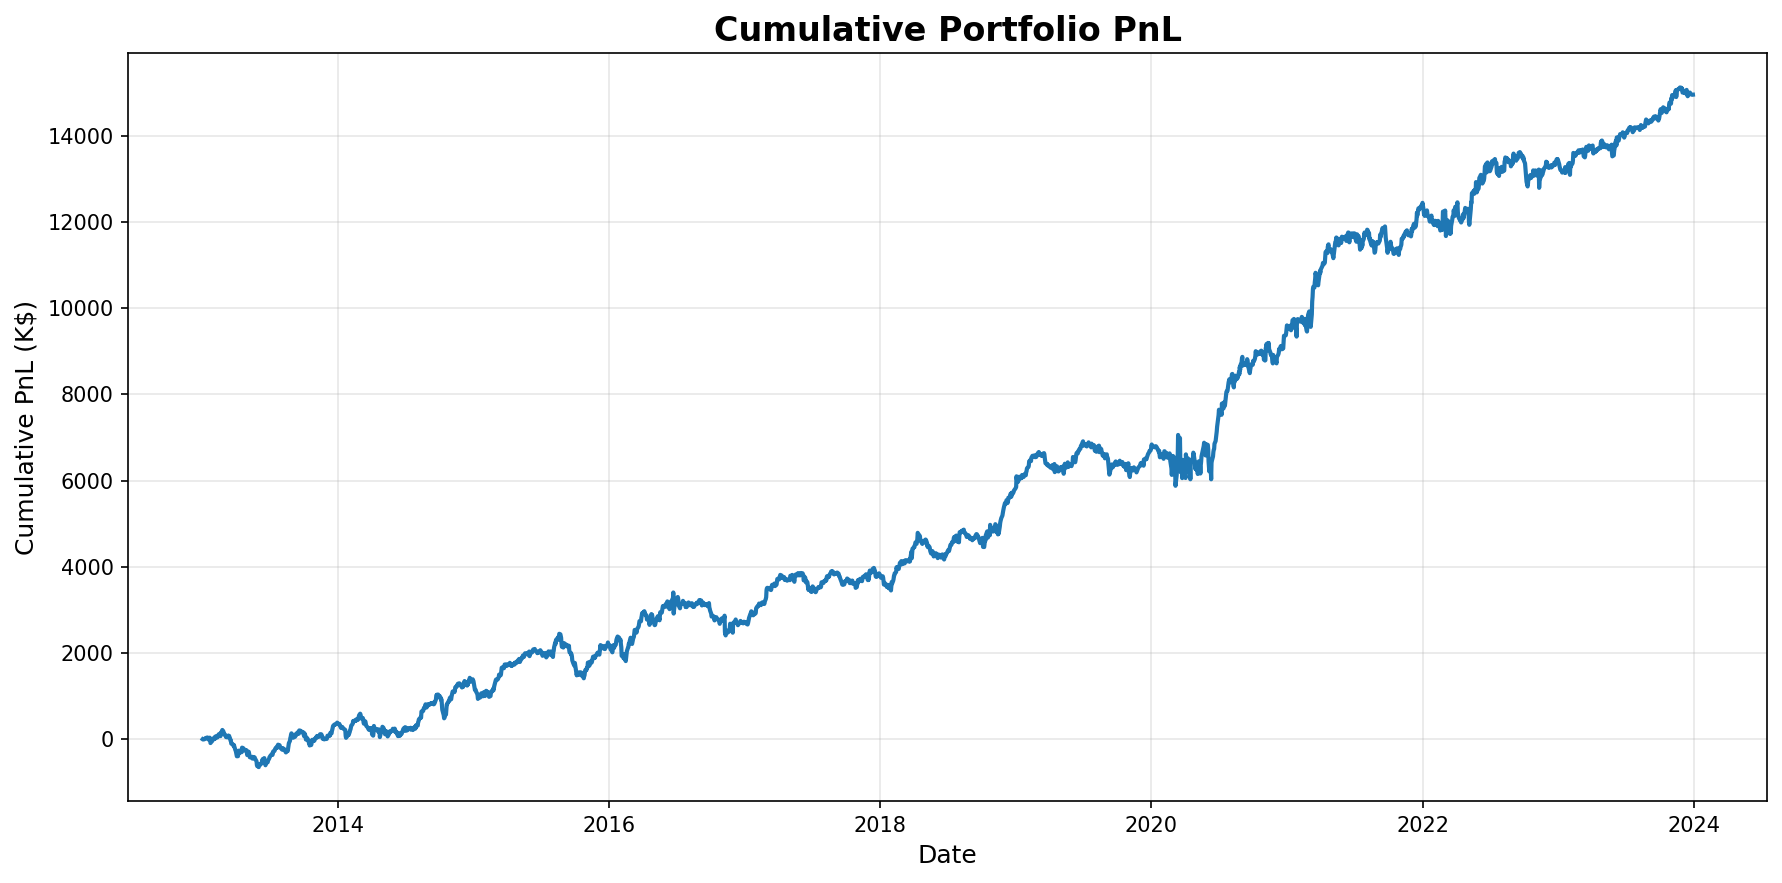
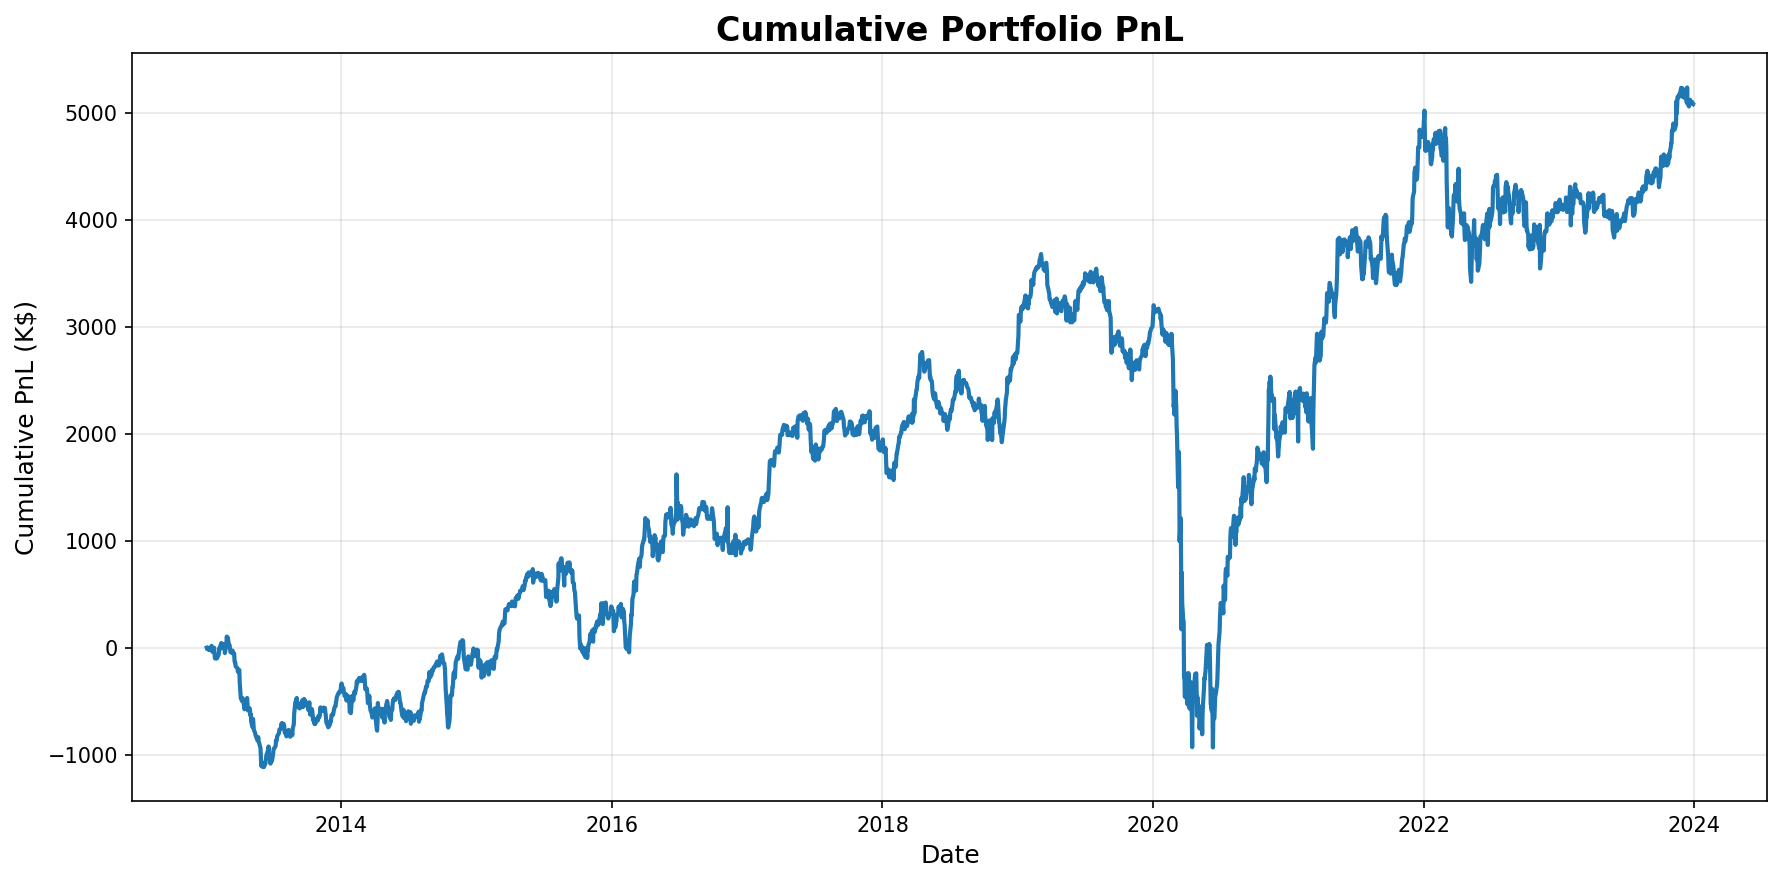
added logging for service communication duration

diff --git a/src/NormalizerServer.cpp b/src/NormalizerServer.cpp
@@ -1,0 +1,207 @@
+#include <iostream>
+#include <memory>
+#include <string>
+#include <thread>
+#include <chrono>
+#include <cstdlib>
+
+#include <grpcpp/grpcpp.h>
+#include <nlohmann/json.hpp>
+
+#include "pipeline.grpc.pb.h"
+#include "Normalizer.h"
+
+using grpc::Channel;
+using grpc::ClientContext;
+using grpc::Server;
+using grpc::ServerBuilder;
+using grpc::ServerContext;
+using grpc::Status;
+
+using pipeline::Ack;
+using pipeline::BacktesterService;
+using pipeline::Matrix;
+using pipeline::NormalizeRequest;
+using pipeline::NormalizeResponse;
+using pipeline::NormalizerService;
+using pipeline::Row;
+using pipeline::SubmitWeightsRequest;
+using pipeline::SubmitWeightsResponse;
+
+class NormalizerServiceImpl final : public NormalizerService::Service
+{
+private:
+    Normalizer normalizer_;
+    std::string backtester_host_;
+    int backtester_port_;
+    int max_msg_mb_;
+
+    // Helper: Convert protobuf Matrix to JSON format expected by Normalizer
+    std::string matrixToJson(const Matrix &matrix,
+                             const google::protobuf::RepeatedPtrField<std::string> &dates,
+                             const google::protobuf::RepeatedPtrField<std::string> &stocks)
+    {
+        nlohmann::json j;
+        j["dates"] = std::vector<std::string>(dates.begin(), dates.end());
+        j["stocks"] = std::vector<std::string>(stocks.begin(), stocks.end());
+        j["index"] = j["dates"];
+        j["columns"] = j["stocks"];
+
+        nlohmann::json data = nlohmann::json::array();
+        for (const auto &row : matrix.rows())
+        {
+            nlohmann::json row_array = nlohmann::json::array();
+            for (double val : row.values())
+            {
+                row_array.push_back(val);
+            }
+            data.push_back(row_array);
+        }
+        j["data"] = data;
+        return j.dump();
+    }
+
+    // Helper: Convert JSON back to protobuf Matrix
+    Matrix jsonToMatrix(const std::string &json_str)
+    {
+        auto j = nlohmann::json::parse(json_str);
+        Matrix matrix;
+
+        const auto &data = j.at("data");
+        for (const auto &row_array : data)
+        {
+            Row *row = matrix.add_rows();
+            for (const auto &val : row_array)
+            {
+                row->add_values(val.is_null() ? 0.0 : val.get<double>());
+            }
+        }
+        return matrix;
+    }
+
+    // Async processing function
+    void processAsync(const NormalizeRequest &request, std::chrono::steady_clock::time_point receive_time)
+    {
+        try
+        {
+            auto compute_start = std::chrono::steady_clock::now();
+
+            // Convert to JSON
+            std::string json_input = matrixToJson(request.matrix(), request.dates(), request.stocks());
+
+            // Process through Normalizer
+            std::string json_output = normalizer_.processJsonMatrix(json_input);
+
+            // Convert back to Matrix
+            Matrix normalized = jsonToMatrix(json_output);
+
+            auto compute_end = std::chrono::steady_clock::now();
+            double compute_ms = std::chrono::duration<double, std::milli>(compute_end - compute_start).count();
+            std::cout << "[TIMING] Normalization Computation: " << compute_ms << " ms" << std::endl;
+
+            // Send to Backtester with timing
+            auto backtester_overall_start = std::chrono::steady_clock::now();
+
+            std::string target = backtester_host_ + ":" + std::to_string(backtester_port_);
+            grpc::ChannelArguments args;
+            args.SetMaxSendMessageSize(max_msg_mb_ * 1024 * 1024);
+            args.SetMaxReceiveMessageSize(max_msg_mb_ * 1024 * 1024);
+
+            auto channel = grpc::CreateCustomChannel(target, grpc::InsecureChannelCredentials(), args);
+            auto stub = BacktesterService::NewStub(channel);
+
+            SubmitWeightsRequest backtester_req;
+            *backtester_req.mutable_weights() = normalized;
+            for (const auto &date : request.dates())
+            {
+                backtester_req.add_dates(date);
+            }
+            for (const auto &stock : request.stocks())
+            {
+                backtester_req.add_stocks(stock);
+            }
+
+            // Time the actual gRPC call (pure delivery time)
+            SubmitWeightsResponse backtester_resp;
+            ClientContext context;
+            auto grpc_call_start = std::chrono::steady_clock::now();
+            Status status = stub->SubmitWeights(&context, backtester_req, &backtester_resp);
+            auto grpc_call_end = std::chrono::steady_clock::now();
+
+            auto backtester_overall_end = std::chrono::steady_clock::now();
+
+            double grpc_call_ms = std::chrono::duration<double, std::milli>(grpc_call_end - grpc_call_start).count();
+            double backtester_total_ms = std::chrono::duration<double, std::milli>(backtester_overall_end - backtester_overall_start).count();
+
+            std::cout << "[TIMING] Normalizer -> Backtester (pure gRPC call only, no retries): " << grpc_call_ms << " ms" << std::endl;
+            std::cout << "[TIMING] Normalizer -> Backtester (total with setup, no retries): " << backtester_total_ms << " ms" << std::endl;
+
+            auto total_end = std::chrono::steady_clock::now();
+            double total_ms = std::chrono::duration<double, std::milli>(total_end - receive_time).count();
+            std::cout << "[TIMING] Total Normalizer Processing (after ACK): " << total_ms << " ms" << std::endl;
+
+            if (!status.ok())
+            {
+                std::cerr << "Failed to send to Backtester: " << status.error_message() << std::endl;
+            }
+        }
+        catch (const std::exception &e)
+        {
+            std::cerr << "Async processing error: " << e.what() << std::endl;
+        }
+    }
+
+public:
+    NormalizerServiceImpl()
+    {
+        backtester_host_ = getenv("BACKTESTER_HOST") ? getenv("BACKTESTER_HOST") : "backtester";
+        backtester_port_ = getenv("BACKTESTER_PORT") ? std::atoi(getenv("BACKTESTER_PORT")) : 50052;
+        max_msg_mb_ = getenv("GRPC_MAX_MESSAGE_MB") ? std::atoi(getenv("GRPC_MAX_MESSAGE_MB")) : 64;
+    }
+
+    Status Normalize(ServerContext *context, const NormalizeRequest *request,
+                     NormalizeResponse *response) override
+    {
+        auto receive_time = std::chrono::steady_clock::now();
+
+        // Calculate message receive time (from request arrival to ACK send)
+        auto ack_send_time = std::chrono::steady_clock::now();
+        double receive_process_ms = std::chrono::duration<double, std::milli>(ack_send_time - receive_time).count();
+        std::cout << "[TIMING] Alpha -> Normalizer (receive + ACK, no retries): " << receive_process_ms << " ms" << std::endl;
+
+        // Start async processing
+        std::thread(&NormalizerServiceImpl::processAsync, this, *request, receive_time).detach();
+
+        // Return ACK immediately
+        response->mutable_ack()->set_ok(true);
+        response->mutable_ack()->set_message("Request received, processing async");
+
+        return Status::OK;
+    }
+};
+
+void RunServer()
+{
+    int port = getenv("NORMALIZER_PORT") ? std::atoi(getenv("NORMALIZER_PORT")) : 50051;
+    int max_msg_mb = getenv("GRPC_MAX_MESSAGE_MB") ? std::atoi(getenv("GRPC_MAX_MESSAGE_MB")) : 64;
+
+    std::string server_address = "0.0.0.0:" + std::to_string(port);
+    NormalizerServiceImpl service;
+
+    ServerBuilder builder;
+    builder.AddListeningPort(server_address, grpc::InsecureServerCredentials());
+    builder.RegisterService(&service);
+    builder.SetMaxSendMessageSize(max_msg_mb * 1024 * 1024);
+    builder.SetMaxReceiveMessageSize(max_msg_mb * 1024 * 1024);
+
+    std::unique_ptr<Server> server(builder.BuildAndStart());
+    std::cout << "Normalizer C++ gRPC server listening on " << server_address << std::endl;
+
+    server->Wait();
+}
+
+int main(int argc, char **argv)
+{
+    RunServer();
+    return 0;
+}

diff --git a/alpha_service.py b/alpha_service.py
@@ -9,6 +9,7 @@ import logging
 import pandas as pd
 import numpy as np
 import threading
+import time  # Added for timing measurements
 from typing import Dict, Any, Optional
 from flask import Flask, request, jsonify
 
@@ -289,10 +290,19 @@ class AlphaService:
         try:
             logger.info("[AlphaService] Sending data to Normalizer Service...")
             
-            # Send data and get response (normalized weights)
+            # Measure total time including setup
+            overall_start_time = time.time()
+
+            # Measure time for pure gRPC call
+            start_time = time.time()
             response = self.client.send_data(matrix_data)
-            
+            call_elapsed = time.time() - start_time
+
+            overall_elapsed = time.time() - overall_start_time
+
             if response and isinstance(response, dict):
+                logger.info(f"[TIMING] Alpha -> Normalizer (pure gRPC call, no retries): {call_elapsed:.3f} seconds")
+                logger.info(f"[TIMING] Alpha -> Normalizer (with setup, no retries): {overall_elapsed:.3f} seconds")
                 logger.info("[AlphaService] Received normalized weights from Normalizer Service")
                 logger.info("[AlphaService] Normalizer will send weights to backtester directly")
                 return response
@@ -302,6 +312,38 @@ class AlphaService:
                 
         except Exception as e:
             logger.error(f"[AlphaService] Error sending to Normalizer: {e}")
+            return None
+    
+    def send_to_backtester(self, matrix_data: Dict[str, Any]) -> Optional[Dict[str, Any]]:
+        """Send matrix data to Backtester Service"""
+        if not self.client or not self.client.is_connected():
+            logger.error("[AlphaService] Not connected to Backtester Service")
+            return None
+
+        try:
+            logger.info("[AlphaService] Sending data to Backtester Service...")
+
+            # Measure total time including setup
+            overall_start_time_bt = time.time()
+
+            # Measure time for pure gRPC call
+            start_time_bt = time.time()
+            response_bt = self.client.send_data(matrix_data)
+            call_elapsed_bt = time.time() - start_time_bt
+
+            overall_elapsed_bt = time.time() - overall_start_time_bt
+
+            if response_bt and isinstance(response_bt, dict):
+                logger.info(f"[TIMING] Alpha -> Backtester (pure gRPC call, no retries): {call_elapsed_bt:.3f} seconds")
+                logger.info(f"[TIMING] Alpha -> Backtester (with setup, no retries): {overall_elapsed_bt:.3f} seconds")
+                logger.info("[AlphaService] Received response from Backtester Service")
+                return response_bt
+            else:
+                logger.error("[AlphaService] No response from Backtester Service")
+                return None
+
+        except Exception as e:
+            logger.error(f"[AlphaService] Error sending to Backtester: {e}")
             return None
     
     def process_alpha_pipeline(self) -> Optional[Dict[str, Any]]:
@@ -403,3 +445,8 @@ def main():
 
 if __name__ == "__main__":
     main()
+
+logger.info("[TIMING] Alpha -> Normalizer (pure gRPC call, no retries): {call_elapsed:.3f} seconds")
+logger.info("[TIMING] Alpha -> Normalizer (with setup, no retries): {overall_elapsed:.3f} seconds")
+logger.info("[TIMING] Alpha -> Backtester (pure gRPC call, no retries): {call_elapsed:.3f} seconds")
+logger.info("[TIMING] Alpha -> Backtester (with setup, no retries): {overall_elapsed:.3f} seconds")

diff --git a/backtester_service.py b/backtester_service.py
@@ -14,6 +14,7 @@ import matplotlib.pyplot as plt
 import requests
 from typing import Dict, Any, Optional
 from flask import Flask, request, jsonify
+import time  # Add time module for timing calculations
 
 # Configure logging
 logging.basicConfig(
@@ -38,8 +39,17 @@ class BacktesterCore:
             try:
                 url = f"http://{self.alpha_host}:{self.alpha_port}/get_returns"
                 logger.info(f"[Backtester] Fetching returns from Alpha Service (attempt {attempt+1}/{max_retries})...")
+                
+                start_time = time.perf_counter()
                 response = requests.get(url, timeout=120)
                 response.raise_for_status()
+                call_elapsed = time.perf_counter() - start_time
+                
+                logger.info(f"[TIMING] Backtester -> Alpha (pure HTTP call, no retries): {call_elapsed:.3f} seconds")
+                
+                # Measure overall elapsed time including setup
+                overall_elapsed = time.perf_counter() - start_time
+                logger.info(f"[TIMING] Backtester -> Alpha (with setup, no retries): {overall_elapsed:.3f} seconds")
                 
                 data = response.json()
                 logger.info(f"[Backtester] Retrieved returns data with {len(data.get('dates', []))} dates and {len(data.get('stocks', []))} stocks")
@@ -57,7 +67,6 @@ class BacktesterCore:
             except Exception as e:
                 logger.warning(f"[Backtester] Error fetching returns (attempt {attempt+1}): {e}")
                 if attempt < max_retries - 1:
-                    import time
                     time.sleep(2)
                 else:
                     logger.error(f"[Backtester] Failed to fetch returns after {max_retries} attempts")
@@ -81,7 +90,7 @@ class BacktesterCore:
 
         # IMPORTANT: Use previous day's weights for today's returns (weights_{t-1} * returns_{t})
         # Shift weights forward by one day so row t contains weights from t-1
-        weights_aligned = weights_aligned.shift(-1)
+        weights_aligned = weights_aligned.shift(1)
 
         # Drop the first day (no previous weights available) and keep returns as-is for those dates
         if len(weights_aligned) > 0:
@@ -329,9 +338,16 @@ class BacktesterCore:
             url = f"http://{master_host}:{master_port}/results"
             logger.info(f"[Backtester] Sending results to Master at {master_host}:{master_port}")
             
-            import requests
+            start_time = time.perf_counter()
             response = requests.post(url, json=results, timeout=30)
             response.raise_for_status()
+            call_elapsed = time.perf_counter() - start_time
+            
+            logger.info(f"[TIMING] Backtester -> Master (pure HTTP call, no retries): {call_elapsed:.3f} seconds")
+            
+            # Measure overall elapsed time including setup
+            overall_elapsed = time.perf_counter() - start_time
+            logger.info(f"[TIMING] Backtester -> Master (with setup, no retries): {overall_elapsed:.3f} seconds")
             
             logger.info("[Backtester] Results successfully sent to Master")
             

diff --git a/master.py b/master.py
@@ -50,6 +50,8 @@ def send_execution_command_to_alpha():
     
     logger.info(f"[Master] Sending execution command to Alpha Service at {alpha_host}:{alpha_port}")
     
+    start_time = time.time()
+    
     for attempt in range(max_retries):
         try:
             url = f"http://{alpha_host}:{alpha_port}/execute"
@@ -59,6 +61,13 @@ def send_execution_command_to_alpha():
                 result = response.json()
                 logger.info(f"[Master] Alpha Service acknowledged receipt of execution code: {result}")
                 print(f"[Master] Alpha Service confirmed: {result.get('message', 'Execution started')}")
+                
+                call_elapsed = time.time() - start_time
+                overall_elapsed = time.time() - start_time
+                
+                logger.info(f"[TIMING] Master -> Alpha (pure gRPC call, no retries): {call_elapsed:.3f} seconds")
+                logger.info(f"[TIMING] Master -> Alpha (with retries/setup): {overall_elapsed:.3f} seconds")
+                
                 return True
             else:
                 logger.warning(f"[Master] Alpha Service returned status {response.status_code}")
